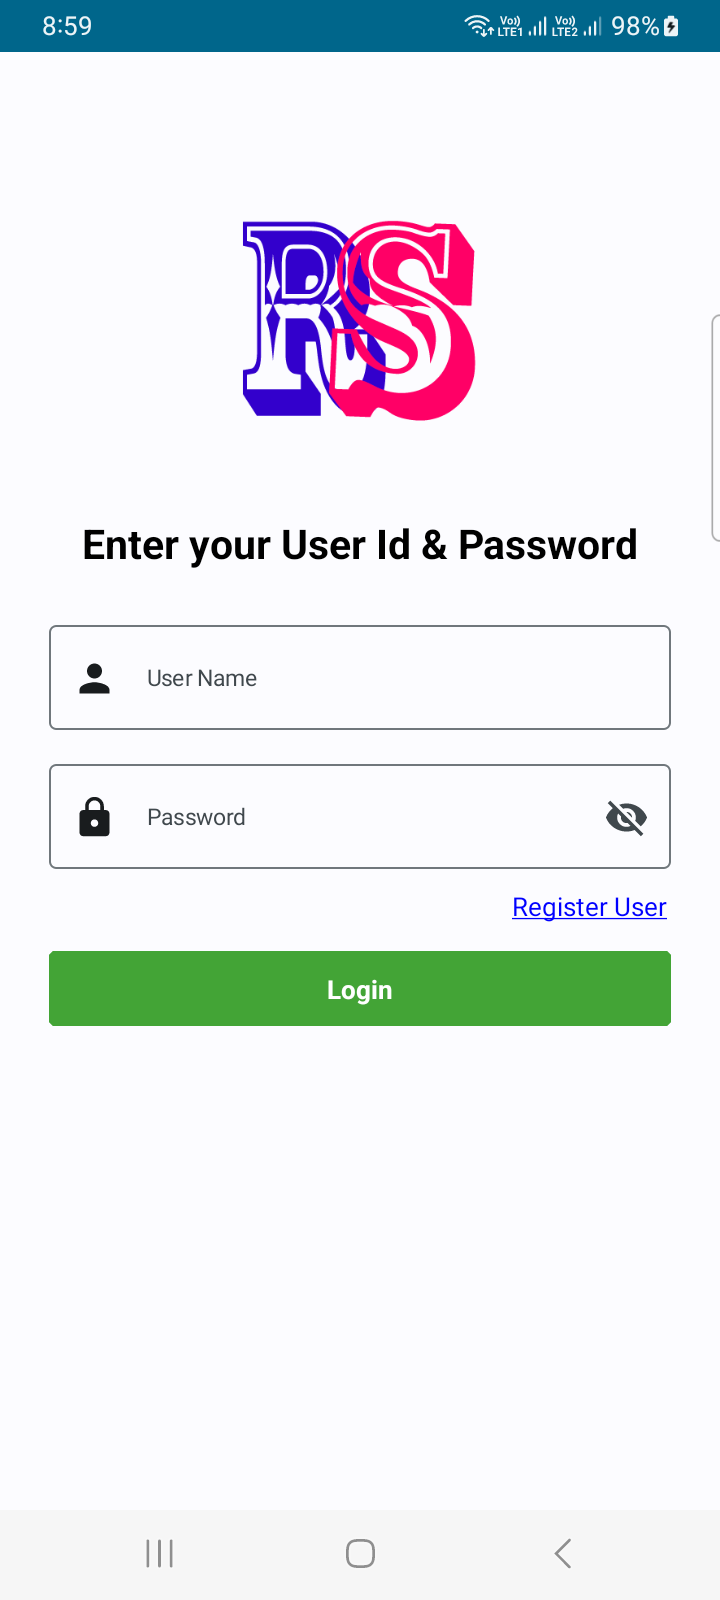
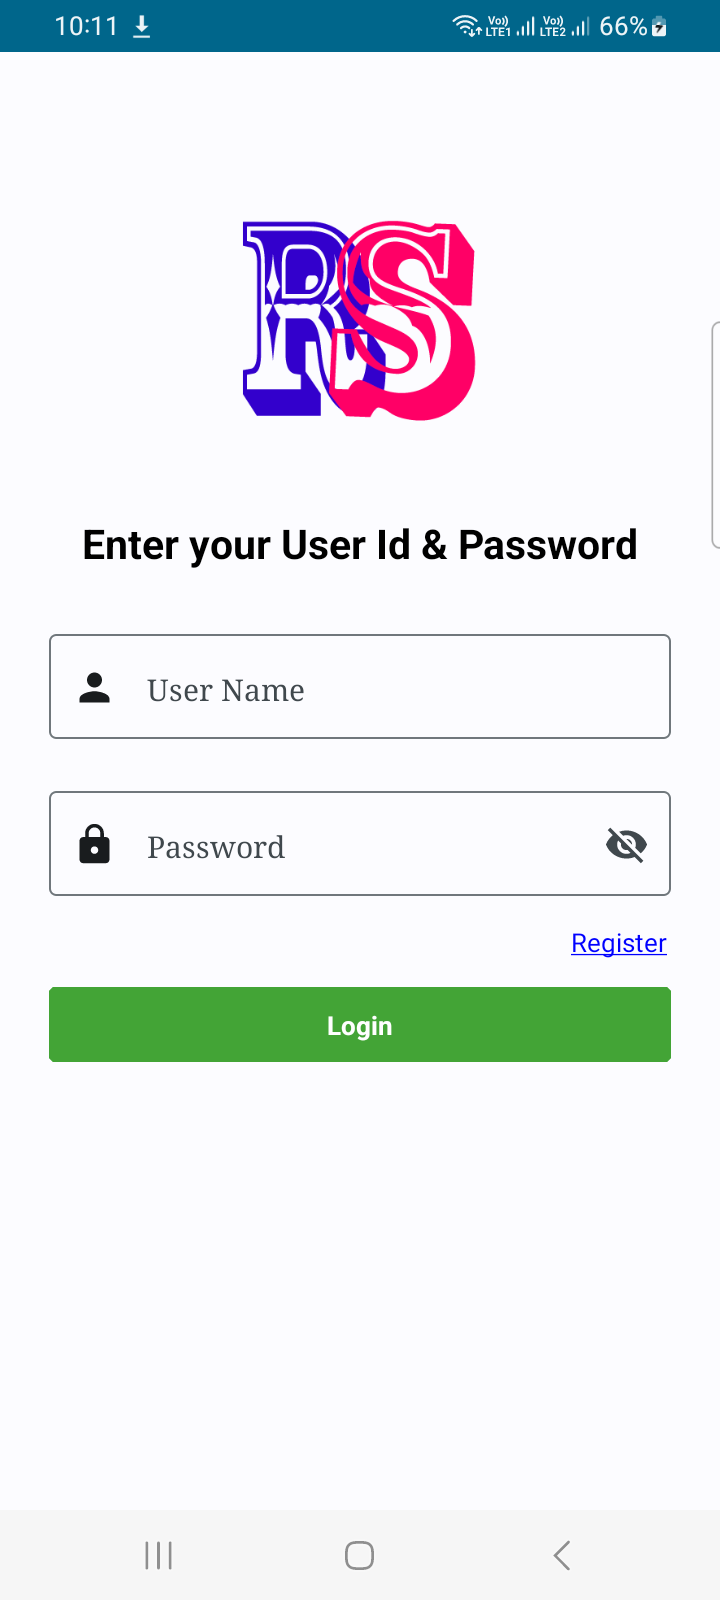
addRegistration

diff --git a/app/src/main/java/com/sdd/saniproadvance/screen/Registration.kt b/app/src/main/java/com/sdd/saniproadvance/screen/Registration.kt
@@ -1,0 +1,248 @@
+package com.sdd.saniproadvance.screen
+
+import android.util.Patterns
+import android.widget.Toast
+import androidx.compose.foundation.clickable
+import androidx.compose.foundation.layout.*
+import androidx.compose.foundation.rememberScrollState
+import androidx.compose.foundation.text.KeyboardActions
+import androidx.compose.foundation.text.KeyboardOptions
+import androidx.compose.foundation.verticalScroll
+import androidx.compose.material.MaterialTheme
+import androidx.compose.material.Surface
+import androidx.compose.material.Text
+import androidx.compose.material.icons.Icons
+import androidx.compose.material.icons.filled.*
+import androidx.compose.runtime.Composable
+import androidx.compose.runtime.getValue
+import androidx.compose.runtime.mutableStateOf
+import androidx.compose.runtime.setValue
+import androidx.compose.runtime.saveable.rememberSaveable
+import androidx.compose.ui.Alignment
+import androidx.compose.ui.Modifier
+import androidx.compose.ui.focus.FocusDirection
+import androidx.compose.ui.graphics.Color
+import androidx.compose.ui.platform.LocalConfiguration
+import androidx.compose.ui.platform.LocalContext
+import androidx.compose.ui.platform.LocalFocusManager
+import androidx.compose.ui.res.stringResource
+import androidx.compose.ui.text.TextStyle
+import androidx.compose.ui.text.input.ImeAction
+import androidx.compose.ui.text.input.KeyboardType
+import androidx.compose.ui.text.style.TextDecoration
+import androidx.compose.ui.tooling.preview.Preview
+import androidx.compose.ui.unit.dp
+import androidx.compose.ui.unit.sp
+import androidx.navigation.NavHostController
+import com.sdd.saniproadvance.R
+import com.sdd.saniproadvance.utils.CustomOutlinedTextField
+import com.sdd.saniproadvance.utils.HeadingText
+import com.sdd.saniproadvance.utils.appIcon
+import com.sdd.saniproadvance.utils.navigation.NavigationScreen
+import com.sdd.saniproadvance.utils.navigation.view.ButtonWithCutCornerShape
+import com.sdd.saniproadvance.utils.navigation.view.MarginsToTop
+import java.util.regex.Pattern
+
+
+//@Preview
+@Composable
+
+fun UserRegistration(navHostController: NavHostController){
+
+
+    val context = LocalContext.current
+    val configuration = LocalConfiguration.current
+    val focusManager = LocalFocusManager.current
+    val scrollState = rememberScrollState()
+    val screenHeight = configuration.screenHeightDp.dp
+    var name by rememberSaveable { mutableStateOf("") }
+    var email by rememberSaveable { mutableStateOf("") }
+    var phoneNo by rememberSaveable { mutableStateOf("") }
+    var address by rememberSaveable { mutableStateOf("") }
+    var gender by rememberSaveable { mutableStateOf("") }
+    var dob by rememberSaveable { mutableStateOf("") }
+    var password by rememberSaveable { mutableStateOf("") }
+
+    var validateName by rememberSaveable { mutableStateOf(true) }
+    var validateEmail by rememberSaveable { mutableStateOf(true) }
+    var validatePhoneNo by rememberSaveable { mutableStateOf(true) }
+    var validateAddress by rememberSaveable { mutableStateOf(true) }
+  //  var validatgender by rememberSaveable { mutableStateOf(true) }
+   // var validatdob by rememberSaveable { mutableStateOf(true) }
+    var validatePassword by rememberSaveable { mutableStateOf(true) }
+    var isPasswordVisible by rememberSaveable { mutableStateOf(false)}
+
+    val validateNameError = "Please, input a valid name"
+    val validateEmailError ="The format of the email doesn't seem right"
+    val validatePhoneNoError ="The format of the phone number doesn't seem right"
+    val validatePasswordError ="Must mix capital and non-capital letters, a number, special character and a minimum length of 8"
+
+    fun validateData(name:String,email:String,phoneNo:String,password:String):Boolean{
+        val passwordRegex = "(?=.*[@#\$%^&+=])".toRegex()//"(?=.*\\d)(?=.*[a-z](?=.*[@#$%^&*+=]).{8,})".toRegex()
+        validateName = name.isNotBlank()
+        validateEmail = Patterns.EMAIL_ADDRESS.matcher(email).matches()
+        validatePhoneNo =Patterns.PHONE.matcher(phoneNo).matches()
+       // validatePassword = passwordRegex.matches(password)
+
+        return validateName && validateEmail && validatePhoneNo
+    }
+
+    fun register(
+        name:String,
+        email:String,
+        phone:String,
+        password:String,
+        address:String
+    ){
+        if (validateData(name,email,phone,password)){
+            navHostController.navigate(NavigationScreen.DashboardScreen.createRoute("hello this is Dashboard Screen")){
+                /**  launchSingleTop =true
+                 * create only on instance in BackStack
+                like A-B-C-A-B = A-B-C
+                 */
+                launchSingleTop = true
+            }
+
+            //print toast
+        }else{
+            //print toast
+        }
+    }
+
+
+
+    Surface() {
+
+        Column(modifier = Modifier
+            .fillMaxWidth()
+          //  .padding(all = 8.dp)
+            .verticalScroll(scrollState),
+            horizontalAlignment = Alignment.CenterHorizontally,
+            verticalArrangement = Arrangement.Top
+        ) {
+
+            MarginsToTop(screenHeight = (screenHeight*5/100))
+            appIcon()
+            MarginsToTop(screenHeight = (screenHeight*2/100))
+            HeadingText(text = stringResource(R.string.enter_your_detail))
+            //  SimpleText(text = stringResource(R.string.info_otp))
+            MarginsToTop(screenHeight = 16.dp)
+
+            CustomOutlinedTextField(
+                value = name,
+                onValueChange = {name=it},
+                label = "Name",
+                showError = !validateName,
+                errorMessage = validateNameError,
+                leadingIconImageVector = Icons.Default.Person,
+                leadingIconDescription = "na",
+                keyBoardOption = KeyboardOptions(
+                    keyboardType = KeyboardType.Text,
+                    imeAction = ImeAction.Next
+                ),
+                keyboardActions = KeyboardActions(
+                    onNext = {focusManager.moveFocus(FocusDirection.Down)}
+                )
+            )
+            CustomOutlinedTextField(
+                value = email,
+                onValueChange = {email=it},
+                label = "EmailAddress",
+                showError = !validateEmail,
+                errorMessage = validateEmailError,
+                leadingIconImageVector = Icons.Default.Email,
+                leadingIconDescription = "na",
+                keyBoardOption = KeyboardOptions(
+                    keyboardType = KeyboardType.Email,
+                    imeAction = ImeAction.Next
+                ),
+                keyboardActions = KeyboardActions(
+                    onNext = {focusManager.moveFocus(FocusDirection.Down)}
+                )
+            )
+            CustomOutlinedTextField(
+                value = phoneNo,
+                onValueChange = {phoneNo=it},
+                label = "Phone Number",
+                showError = !validatePhoneNo,
+                errorMessage = validatePhoneNoError,
+                leadingIconImageVector = Icons.Default.Phone,
+                leadingIconDescription = "na",
+                keyBoardOption = KeyboardOptions(
+                    keyboardType = KeyboardType.Phone,
+                    imeAction = ImeAction.Next
+                ),
+                keyboardActions = KeyboardActions(
+                    onNext = {focusManager.moveFocus(FocusDirection.Down)}
+                ),
+            )
+            CustomOutlinedTextField(
+                value = address,
+                onValueChange = {address=it},
+                label = "Address",
+                leadingIconImageVector = Icons.Default.Home,
+                leadingIconDescription = "na",
+                keyBoardOption = KeyboardOptions(
+                    keyboardType = KeyboardType.Text,
+                    imeAction = ImeAction.Next
+                ),
+                keyboardActions = KeyboardActions(
+                   // onNext = {focusManager.moveFocus(FocusDirection.Down)}
+                ),
+            )
+            CustomOutlinedTextField(
+                value = password,
+                onValueChange = {password=it},
+                label = "Password",
+                leadingIconImageVector = Icons.Default.Lock,
+                leadingIconDescription = "na",
+                showError = !validatePassword,
+                errorMessage = validatePasswordError,
+                isPasswordField = true,
+                isPasswordVisible = isPasswordVisible,
+                onVisibilityChange ={isPasswordVisible=it},
+                keyBoardOption = KeyboardOptions(
+                    keyboardType = KeyboardType.Password,
+                    imeAction = ImeAction.Done
+                ),
+                keyboardActions = KeyboardActions(
+                    onDone = {focusManager.clearFocus()}
+                ),
+
+            )
+
+            MarginsToTop(screenHeight = 10.dp)
+            ButtonWithCutCornerShape(stringResource(id = R.string.register)){
+                register(name,email,phoneNo,password,address)
+            }
+
+            Box(modifier = Modifier.fillMaxWidth()) {
+                Text(modifier = Modifier
+                    .align(Alignment.BottomEnd)
+                    .padding(end = 28.dp)
+                    .clickable {
+
+                        navHostController.navigate(NavigationScreen.LoginScreen.route){
+                            /**  launchSingleTop =true
+                             * create only on instance in BackStack
+                            like A-B-C-A-B = A-B-C
+                             */
+                            /**  launchSingleTop =true
+                             * create only on instance in BackStack
+                            like A-B-C-A-B = A-B-C
+                             */
+
+                             launchSingleTop = true
+                        }
+
+                    },text = "Login", style = TextStyle(color = Color.Blue, fontSize = 14.sp),
+                    textDecoration = TextDecoration.Underline)
+            }
+
+
+
+
+        }
+
+    }
+}

diff --git a/app/src/main/java/com/sdd/saniproadvance/utils/navigation/view/TextView.kt b/app/src/main/java/com/sdd/saniproadvance/utils/navigation/view/TextView.kt
@@ -99,7 +99,7 @@ fun CustomOutlinedTextField(
     isSingleLine:Boolean = false,
     isPasswordField:Boolean =false,
     isPasswordVisible:Boolean=false,
-    onVisibilityChange:(Boolean)->Unit,
+    onVisibilityChange:(Boolean)->Unit={false},
     keyBoardOption:KeyboardOptions = KeyboardOptions.Default,
     keyboardActions: KeyboardActions = KeyboardActions.Default,
     showError:Boolean = false,
@@ -108,12 +108,13 @@ fun CustomOutlinedTextField(
 ) {
     OutlinedTextField(
         value = value,
+        textStyle = TextStyle(fontSize = 16.sp, fontFamily = FontFamily.SansSerif),
         singleLine = isSingleLine,
         onValueChange = {onValueChange(it)},
         modifier = Modifier
-            .padding(start = 26.dp, end = 26.dp)
+            .padding(start = 26.dp, end = 26.dp, top = 5.dp, bottom = 5.dp)
             .fillMaxWidth(),
-        label = { Text(label) },
+        label = { Text(label, style = TextStyle(fontSize = 16.sp, fontFamily = FontFamily.Serif), modifier = Modifier.padding(top = 2.dp)) },
         leadingIcon ={
             Icon(
                 imageVector = leadingIconImageVector,
@@ -130,7 +131,6 @@ fun CustomOutlinedTextField(
                 }) {
                     Icon(painter = if (isPasswordVisible) painterResource(id = R.drawable.baseline_visibility_24) else painterResource(id = R.drawable.baseline_visibility_off_24)
                         , contentDescription = "Toggle password visibility")
-
 
                 }
             }

diff --git a/app/src/main/java/com/sdd/saniproadvance/screen/Login.kt b/app/src/main/java/com/sdd/saniproadvance/screen/Login.kt
@@ -84,17 +84,28 @@ fun LoginScreen(navHostController: NavHostController,context: Activity){
                 .align(Alignment.BottomEnd)
                 .padding(end = 28.dp)
                 .clickable {
+
+                    navHostController.navigate(NavigationScreen.UserRegistrationScreen.route){
+                        /**  launchSingleTop =true
+                         * create only on instance in BackStack
+                        like A-B-C-A-B = A-B-C
+                         */
+                       // launchSingleTop = true
+                    }
+
+/*
                     Toast
                         .makeText(context, "Jai Mata di", Toast.LENGTH_LONG)
                         .show()
-                },text = "Register User", style = TextStyle(color = Color.Blue, fontSize = 14.sp),
+*/
+                },text = "Register", style = TextStyle(color = Color.Blue, fontSize = 14.sp),
                 textDecoration = TextDecoration.Underline)
         }
 
 
         MarginsToTop(screenHeight = 10.dp)
         ButtonWithCutCornerShape(stringResource(id = R.string.login)){
-            Toast.makeText(context,mobileNo,Toast.LENGTH_LONG).show()
+          //  Toast.makeText(context,mobileNo,Toast.LENGTH_LONG).show()
             navHostController.navigate(NavigationScreen.DashboardScreen.createRoute("hello this is Dashboard Screen")){
                 /**  launchSingleTop =true
                  * create only on instance in BackStack

diff --git a/app/src/main/java/com/sdd/saniproadvance/navigation/Navigation.kt b/app/src/main/java/com/sdd/saniproadvance/navigation/Navigation.kt
@@ -6,10 +6,7 @@ import androidx.compose.runtime.Composable
 import androidx.navigation.compose.NavHost
 import androidx.navigation.compose.composable
 import androidx.navigation.compose.rememberNavController
-import com.sdd.saniproadvance.screen.DashboardScreen
-import com.sdd.saniproadvance.screen.LoginScreen
-import com.sdd.saniproadvance.screen.ReportScreen
-import com.sdd.saniproadvance.screen.SplashScreen
+import com.sdd.saniproadvance.screen.*
 import com.sdd.saniproadvance.utils.navigation.NavigationScreen
 import com.sdd.saniproadvance.viewmodel.MainViewModel
 
@@ -40,6 +37,9 @@ fun StartNavigation(context: Activity,mainViewModel: MainViewModel){
 
         composable(NavigationScreen.ReportScreen.route){
             ReportScreen(navController)
+        }
+        composable(NavigationScreen.UserRegistrationScreen.route){
+            UserRegistration(navController)
         }
     }
 }

diff --git a/app/src/main/java/com/sdd/saniproadvance/utils/navigation/NavigationScreen.kt b/app/src/main/java/com/sdd/saniproadvance/utils/navigation/NavigationScreen.kt
@@ -9,5 +9,6 @@ sealed class NavigationScreen(val route:String){
         fun createRoute(data:String) = " $data/dashboard"
     }
     object ReportScreen : NavigationScreen("reportscreen")
+    object UserRegistrationScreen :NavigationScreen("registation")
 
 }

diff --git a/README.md b/README.md
@@ -16,3 +16,9 @@ A Simple app in jetpack compose , where we can implement Login , Registration an
 <p align="center">
 <img src="screenshot/login.png" height="400">
 </p>
+<p align="center">
+<img src="screenshot/registration.png" height="400">
+</p>
+<p align="center">
+<img src="screenshot/dashboard.png" height="400">
+</p>
